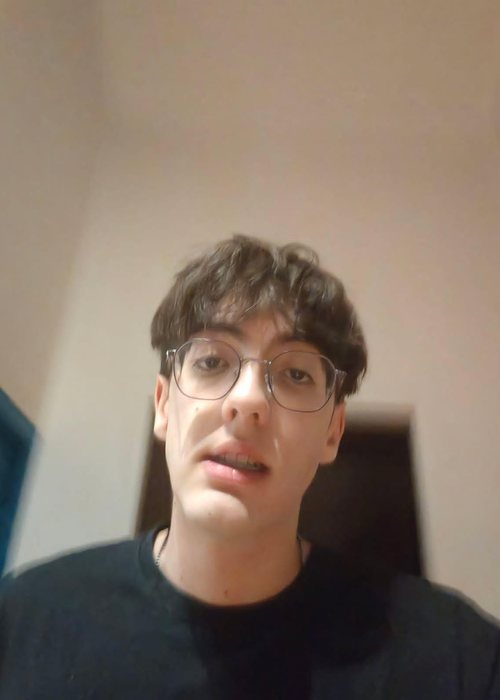
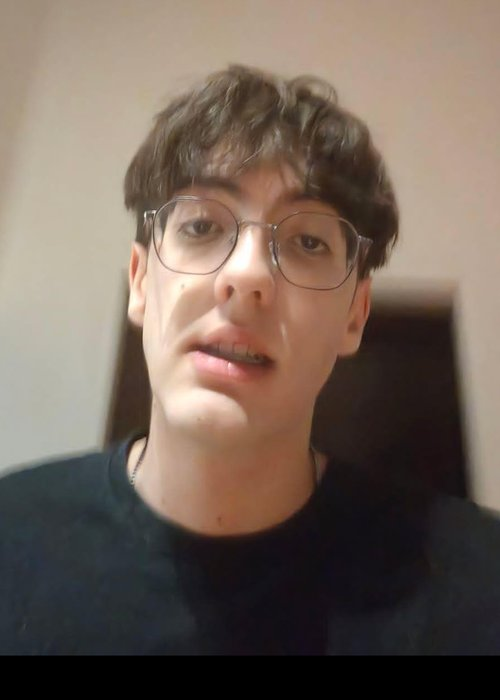
Recadre la photo signée de Morro
Claude-Session: https://claude.ai/code/session_012zh4EtRGLuwvrd88Lowo4N

diff --git a/index.html b/index.html
@@ -594,7 +594,7 @@ const TEAM_PHOTOS={};
 const WIDE=new Set(["speciales-les","rosters-valo","rosters-lol","speciales-ratoon","speciales-ga"]);
 const CHAMP_KEY={"Kai'Sa":"Kaisa","Kha'Zix":"Khazix","K'Santé":"KSante"};
 const champUrl=n=>`https://ddragon.leagueoflegends.com/cdn/img/champion/loading/${CHAMP_KEY[n]||n.replace(/[^A-Za-z]/g,"")}_0.jpg`;
-const IMG_V="10";
+const IMG_V="11";
 const roleSvg=(r,cls)=>ROLE_IMG[r]?`<i class="${cls} rimg" style="--m:url(${ROLE_IMG[r]})"></i>`:ROLE_SVG[r]?`<svg class="${cls}" viewBox="0 0 24 24" fill="none" stroke="currentColor" stroke-width="1.8" stroke-linecap="round" stroke-linejoin="round">${ROLE_SVG[r]}</svg>`:"";
 function cardHTML(c,{holo=false,locked=false}={}){
   const t=SET_BY[c.set];
